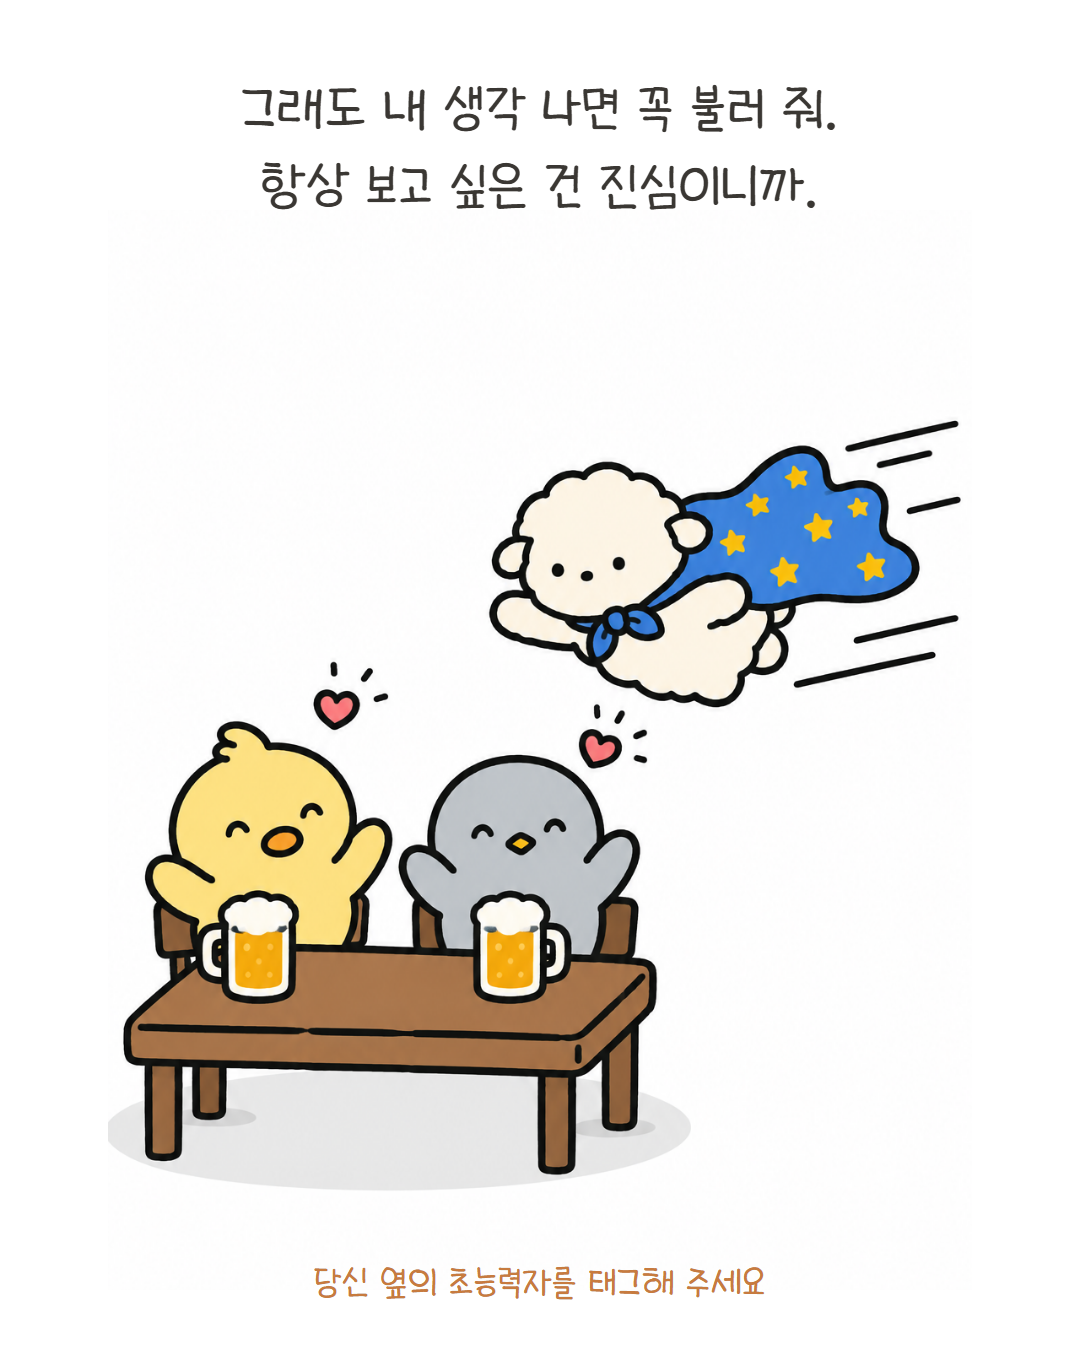
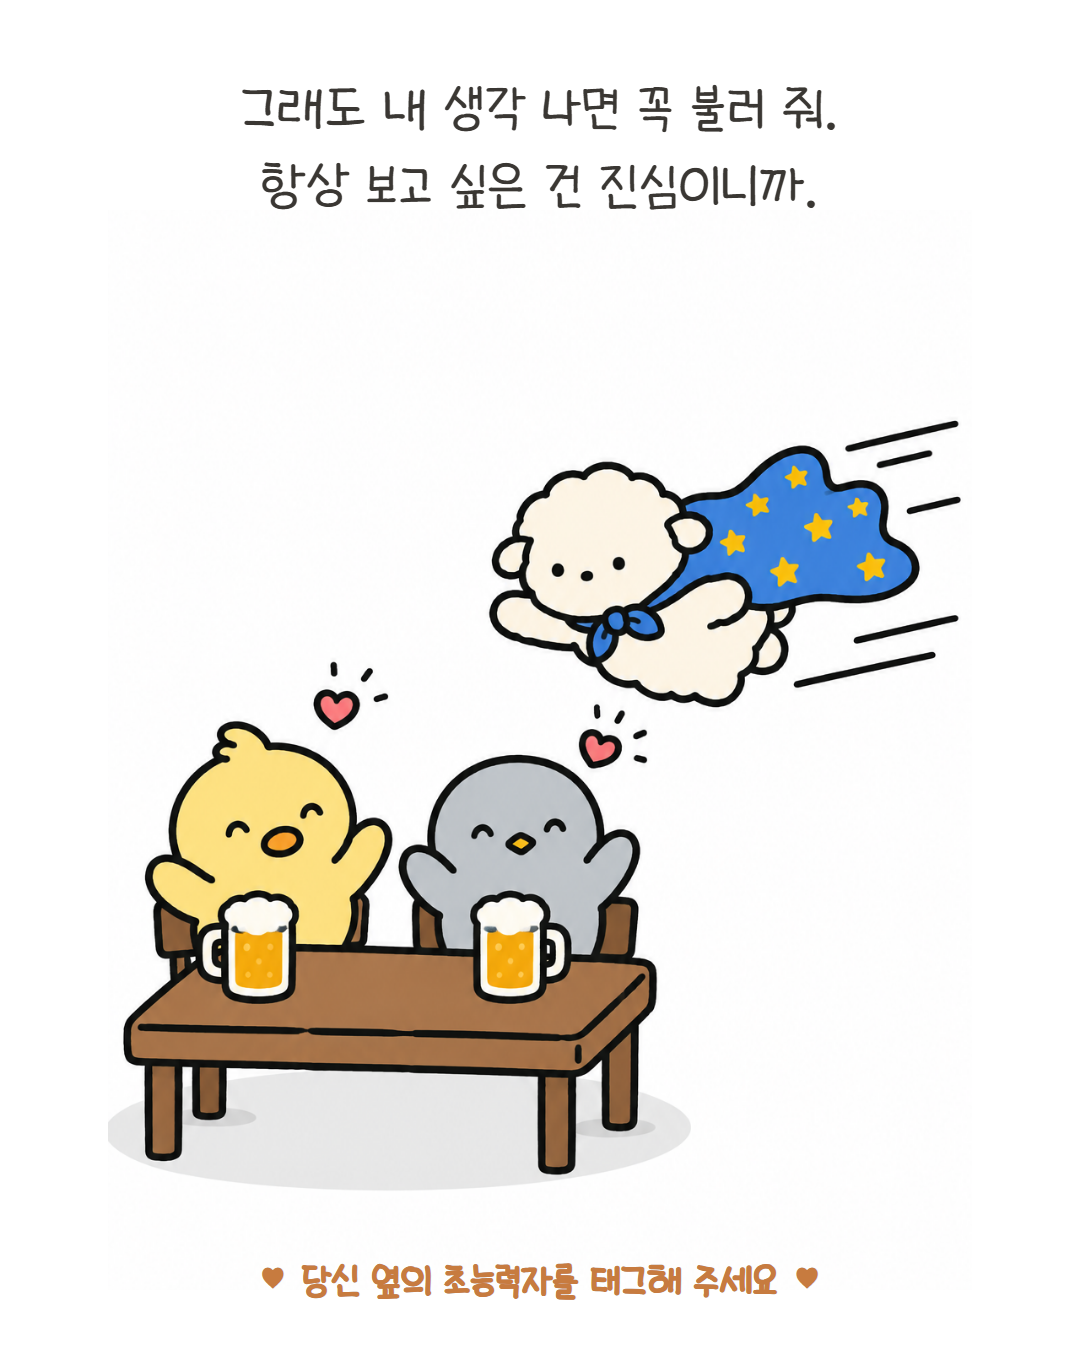
EP.03 CTA 볼드 + 양옆 하트 기호

Changed region(s): [[0.2444, 0.9333, 0.7639, 0.9644]]

diff --git a/episodes/ep03/compose.html b/episodes/ep03/compose.html
@@ -18,7 +18,8 @@
   .narr{position:absolute;top:70px;left:50px;right:50px;text-align:center;font-size:56px;line-height:1.4;white-space:pre}
   .mind{position:absolute;font-size:40px;line-height:1.35;color:var(--gray);white-space:pre-line}
   .mind.phone{color:#3A3733;text-align:center;line-height:1.22;background:#fff;border-radius:14px;padding:6px 8px}
-  .cta{position:absolute;left:70px;right:70px;bottom:44px;text-align:center;font-size:38px;color:var(--point)}
+  .cta{position:absolute;left:70px;right:70px;bottom:44px;text-align:center;font-size:40px;font-weight:700;color:var(--point);-webkit-text-stroke:.6px var(--point)}
+  .cta .hh{font-family:'Segoe UI Symbol','Malgun Gothic',sans-serif;font-size:34px;-webkit-text-stroke:0;vertical-align:2px;margin:0 6px}
   .dim img.art{filter:saturate(.7)}
 </style>
 </head>
@@ -80,7 +81,7 @@
   <img class="art" src="img/cut7.png" alt="">
   <div class="narr">그래도 내 생각 나면 꼭 불러 줘.
 항상 보고 싶은 건 진심이니까.</div>
-  <div class="cta">당신 옆의 초능력자를 태그해 주세요</div>
+  <div class="cta"><span class="hh">♥</span> 당신 옆의 초능력자를 태그해 주세요 <span class="hh">♥</span></div>
 </section>
 
 <script>
